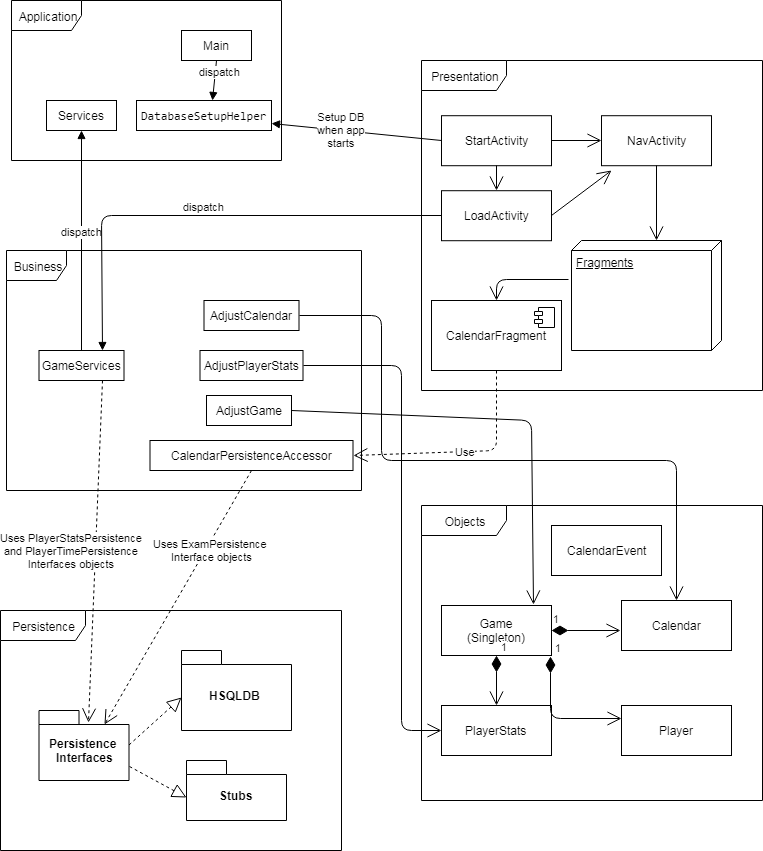
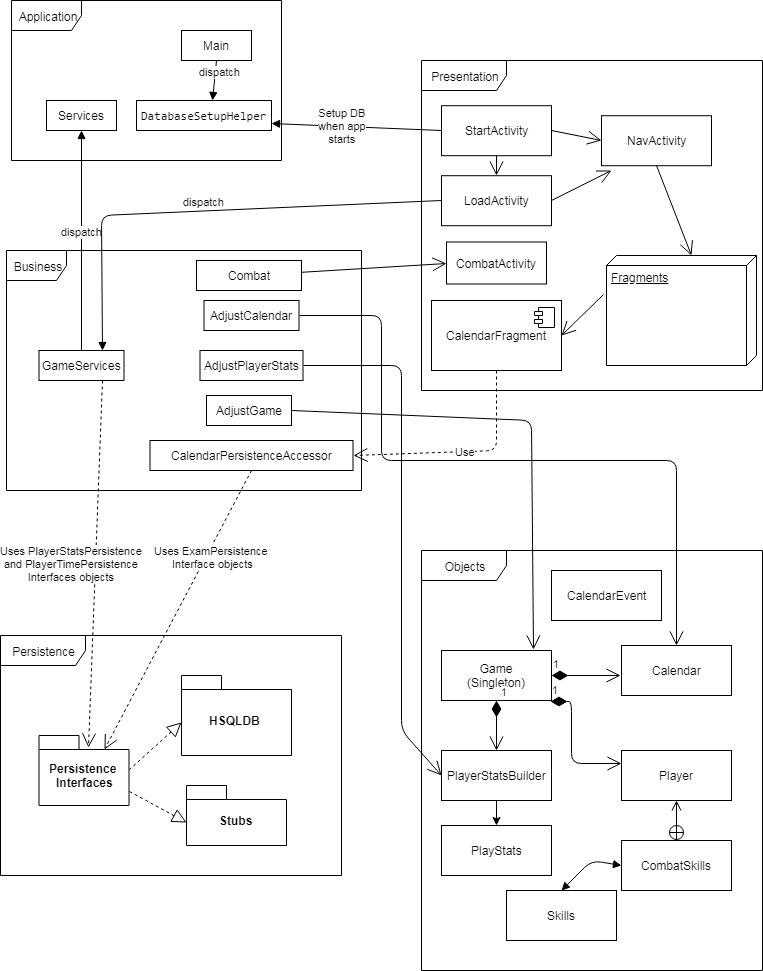
Update documentation

diff --git a/README.md b/README.md
@@ -1,5 +1,8 @@
 # README
 
+## A note for the Marker Regarding Iteration 3:
+This iteration added combat mechanics and a suite a of unit, integration, and acceptance tests.
+
 ## A Note for the Marker Regarding Iteration 2:
 This iteration has greatly expanded the gameplay possible. We are leaving combat or 'exam taking' until version 3. At this point, the game cannot be won or lost, but the 30 day month will still end the game. 
 
